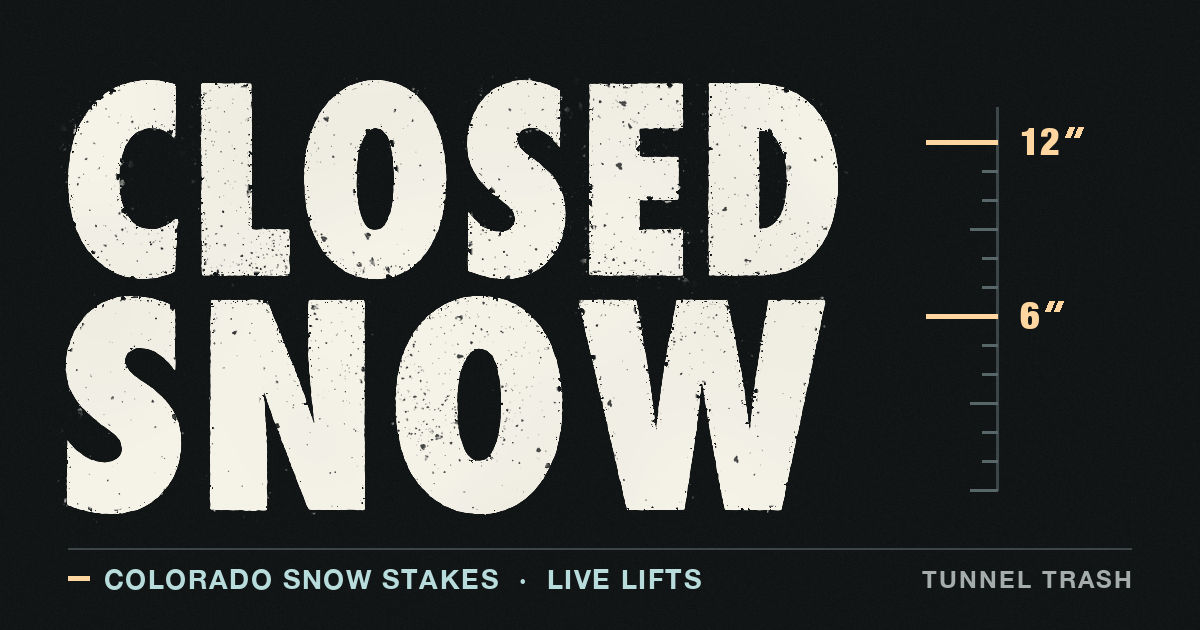
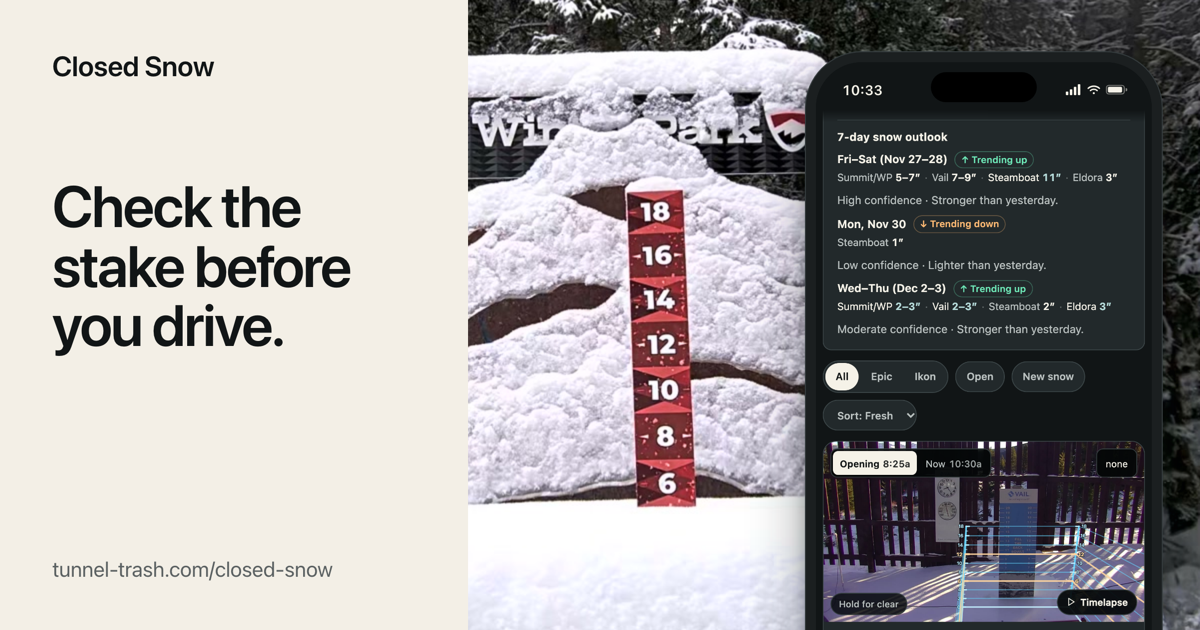
Replace Closed Snow Open Graph image with editorial stake + phone preview (#58)

diff --git a/src/app/closed-snow/page.tsx b/src/app/closed-snow/page.tsx
@@ -35,10 +35,10 @@ export const metadata: Metadata = {
     type: "website",
     images: [
       {
-        url: "/closed-snow-og.png",
+        url: "/closed-snow-og.png?v=2",
         width: 1200,
         height: 630,
-        alt: "Closed Snow — Colorado snow stakes and live lifts",
+        alt: "Closed Snow — Check the stake before you drive",
       },
     ],
   },
@@ -46,7 +46,7 @@ export const metadata: Metadata = {
     card: "summary_large_image",
     title: "Closed Snow · Tunnel Trash",
     description: "Where to ski today: snow stakes, reported snow and base depth.",
-    images: ["/closed-snow-og.png"],
+    images: ["/closed-snow-og.png?v=2"],
   },
 };
 
